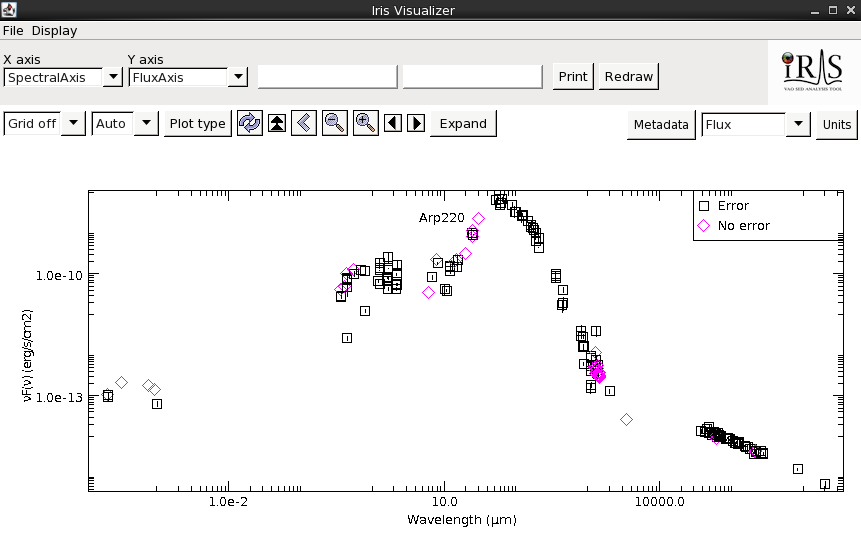
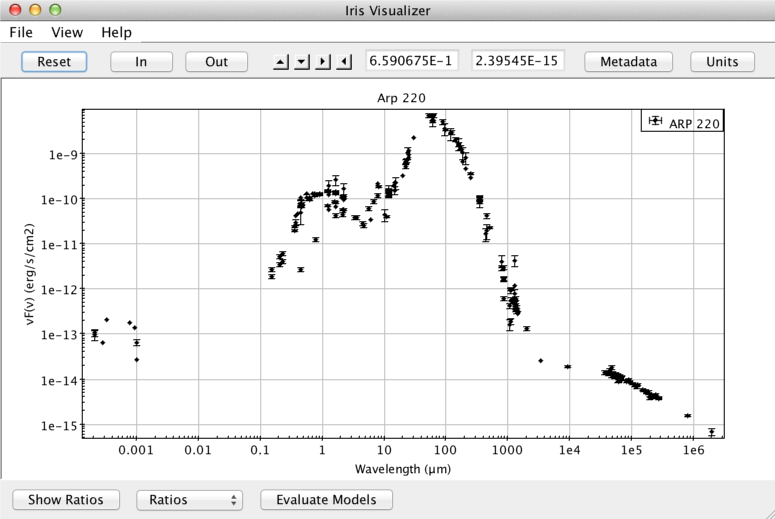
Update science thread text and images for Iris 3.0.

diff --git a/markdown/threads/science/index.md b/markdown/threads/science/index.md
@@ -6,15 +6,12 @@
 
 #### Synopsis:
 
-Since version 1.2, Iris has added several science capabilities built
+Iris has several science capabilities built
 upon the powerful SED building and modeling already implemented in the
 previous versions of the tool, making Iris even more useful for
 astronomers. In this thread, we discuss how you can interpolate and
-smooth SEDs, shift SEDs to any cosmological redshift, and calculate the
-flux through a given interval or a photometric filter.
-
-New to Iris 2.1, users can now integrate under fitted model components
-as well as directly under the SED data.
+smooth SEDs, shift SEDs to another cosmological redshift, and calculate
+fluxes through given intervals or a photometric filters from the data or model.
 
 **Related Links:**
 
@@ -22,8 +19,7 @@ as well as directly under the SED data.
     combining SEDs. Also allows bulk redshifting and normalization
     of SEDs.
 
-**Last Update:** 07 May 2015 - Updated for Iris 2.1 beta. New feature:
-intergration under fitted model components.
+**Last Update:** 03 Feb 2017 - Updated images for Iris 3.0.
 
 ------------------------------------------------------------------------
 
@@ -38,6 +34,7 @@ intergration under fitted model components.
     -   [Integrating Under a Fitted
         Model](index.html#integrate_under_model)
     -   [Saving flux values](index.html#save)
+    -  [Caveat on integrated flux units](index.html#integrated-caveat) 
 -   **[History](index.html#history)**
 
 ------------------------------------------------------------------------
@@ -49,7 +46,7 @@ ultra-luminous infrared galaxy (redshift z=0.018). The photometric data
 is imported from the NED SED service via the *Load NED SED* desktop
 icon. The more useful visualization of the SED of this source can be
 obtained in the Viewer window switching from flux density to flux in the
-"Units" field (here we use erg/s/cm^2^ against microns). In this
+"Units" field (here we use erg/s/cm^2 against microns). In this
 visualization, we can clearly see that the infrared radiation dominates
 the SED.
 
@@ -88,7 +85,7 @@ data over the interpolated SED using the "co-plot" function located
 under "Display" in the Iris Visualizer tool bar.
 
 [![Arp220 Smoothed Linear
-Spline](./imgs/arp220_linearspline_coplot_small.jpg)](./imgs/arp220_linearspline_coplot.png)
+Spline](./imgs/arp220_linearspline_coplot_small.png)](./imgs/arp220_linearspline_coplot.png)
 
 |   |
 |--:|
@@ -118,7 +115,7 @@ about co-plotting in [Visualizing SED Data in
 Iris](../plot/index.html#coplot)).
 
 [![Arp220 at 3
-redshifts](./imgs/arp220_redshifted_small.jpg)](./imgs/arp220_redshifted.png)
+redshifts](./imgs/arp220_redshifted_small.png)](./imgs/arp220_redshifted.png)
 
 We might also be interested in how the SED of this source would look
 like if it was in the vicinity of the Milky Way, say at redshift z=0. We
@@ -200,7 +197,7 @@ for example \[1e9, 1e10\] Hz, and the resulting integrated flux will
 appear in the "Results" panel after clicking on "Add".
 
 [![Calculate Flux
-screenshot](./imgs/arp220_flux_passband_small.jpg)](./imgs/arp220_flux_passband.png)
+screenshot](./imgs/arp220_flux_passband_small.png)](./imgs/arp220_flux_passband.png)
 
 |   |
 |--:|
@@ -259,7 +256,7 @@ extracted as a separate SED by clicking "Create SED" on the bottom of
 the window.
 
 [![Calculate Flux
-screenshot](./imgs/arp220_phot_filter_wise_small.jpg)](./imgs/arp220_phot_filter_wise.png)
+screenshot](./imgs/arp220_phot_filter_wise_small.png)](./imgs/arp220_phot_filter_wise.png)
 
 |   |
 |--:|
@@ -289,19 +286,19 @@ components, then integrate the expression in the "Model Expression"
 field. This means that users can integrate under *individual model
 components*. Multiplication and addition of other model components and
 numeric values are acceptable. For example, the expressions
-`"c2 * 3.678"`, `"c2 * c1"`, and `"c1 + c2 * 1.2"` are allowed.
+`"m2 * 3.678"`, `"m2 * m1"`, and `"m1 + m2 * 1.2"` are allowed.
 
 Say we fit our original Arp220 SED with a [broken
 powerlaw][brokenpowerlaw] for the near IR
 and a [blackbody][blackbody] for the IR
-dust bump using Nelder-Mead optimization and chi-squared statistics.
+dust bump using Nelder-Mead optimization and chi-squared statistics ([download model](./arp220_bb_bp.json)).
 Going back to the "Calculate Flux" in the Science tool, we add the WISE
 photometry filters and add a user-defined pass band from 0.8 to 1000
 microns (8000 - 1E7 Angstroms). To integrate under the fitted model, we
 turn "Integrate Model" on (YES), and click "Calculate."
 
 [![Calculate Flux
-screenshot](./imgs/arp220_integrate_under_model_small.jpg)](./imgs/arp220_integrate_under_model.png)
+screenshot](./imgs/arp220_integrate_under_model_small.png)](./imgs/arp220_integrate_under_model.png)
 
 Users may view the fitted model component details by clicking on "Show
 model". This convenience button let's you see the model components and
@@ -315,7 +312,7 @@ screenshot](./imgs/integrate_show_model.png)](./imgs/integrate_show_model.png)
 
 Now say we want to see what the flux under our passbands are for only
 the [blackbody][blackbody]. We uncheck
-"Full Model," type `"c1"` into the Model Expression field, and click
+"Full Model," type `"m1"` into the Model Expression field, and click
 "Calculate":
 
 [![Calculate Flux
@@ -343,37 +340,62 @@ without highlighting any of the Results will save all fluxes. A simple
 interface allow users to pick the location, name of the file, and the
 units for the effective wavelengths of the spectral
 intervals/photometric systems and fluxes, respectively, using the X and
-Y drop-down menus. The following is the file output from our
-interpolated Arp 220 SED, with the effective wavelength in microns and
-the flux in erg/s/cm^2^.
+Y drop-down menus. The following is the file output from the fitted model fluxes
+of Arp 220, with the effective wavelength in microns and
+the flux in erg/s/cm^2.
 
 ``` {.highlight}
-# This file was generated by Iris, the VAO SED building and analysis tool
+# This file was generated by the Iris SED building and analysis tool
 #
 # Iris Flux Integration output
 # Spectral values are the effective wavelengths of the passbands
 #
-# File created on Wed Feb 25 16:05:58 EST 2015
+# File created on Fri Feb 03 10:28:10 EST 2017
 #
 #
 # TARGET = ARP 220
-# RA = 233.737985
-# DEC = 23.503187
-# XUNIT = um
+# RA = 233.738563
+# DEC = 23.503139
+# XUNIT = μm
 # YUNIT = erg/s/cm2
 #
 # x y
 
-3.315655859375 1.15034615781E-15
-4.56449921875 6.69067475881E-16
-10.78684453125 1.22262438471E-15
-21.9149640625 2.88628452028E-15
-4000.5 8.44103142055E-9
-164885.875 2.02285348225E-14
+3.315655859375 1.3133792045799999E-40
+4.56449921875 4.60502059155E-32
+10.78684453125 8.66839572412E-18
+21.9149640625 9.49445585416E-16
+500.4 6.80848269931E-9
        
 ```
 
 These files can be re-loaded into Iris as an ASCII Table.
+
+|   |
+|--:|
+|[[Back to top][top]]|
+
+------------------------------------------------------------------------
+
+### <a name="integrated-caveat"></a> Caveat on integrated flux units
+
+All flux calculations, including those calculated from a photometric filter, 
+are recorded as a *flux* quantity, not a flux *density*. The data are converted 
+to erg/s/cm2/Angstrom vs Angstroms for integration. After the integrated fluxes 
+are calculated, the fluxes are recorded in erg/s/cm2 with the effective 
+wavelength as the X-value in Angstroms.
+
+Of course this may not make sense for fluxes calculated through the photometric 
+filters.  If you want to convert these fluxes to flux densities:
+
+  1. click the "Save" button in the Flux tab
+  2. choose "Angstroms" as the X Units, and "erg/s/cm2" as the Y Units
+  3. open the saved text file in a text editor
+  4. remove the comments (lines beginning with "#")
+  5. load back into Iris, using "Angstroms" as the X axis units, and 
+     "erg/s/cm2/Angstrom" as the Y axis units
+
+The points will be loaded in the correct flux density units.
 
 |   |
 |--:|
@@ -389,7 +411,7 @@ These files can be re-loaded into Iris as an ASCII Table.
 |  05 Aug 2013 |  Updated to illustrate shifting, interpolation and integration features only. Previous version moved to "[Iris 2.0 Features Tour](../../../v2.0/threads/v2.0_features/)". |
 |  02 Dec 2013 |  Updated for Iris 2.0.1 |
 |  07 May 2015 |  Updated for Iris 2.1 beta. New feature: intergration under fitted model components. |
-  
+|  03 Feb 2017 |  Updated images for Iris 3.0. |   
   
 ------------------------------------
  
